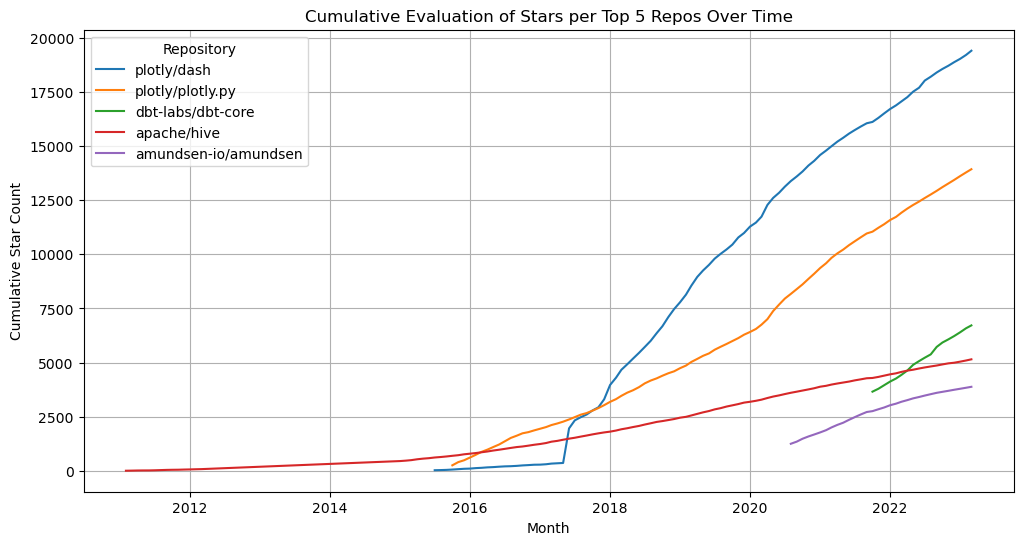
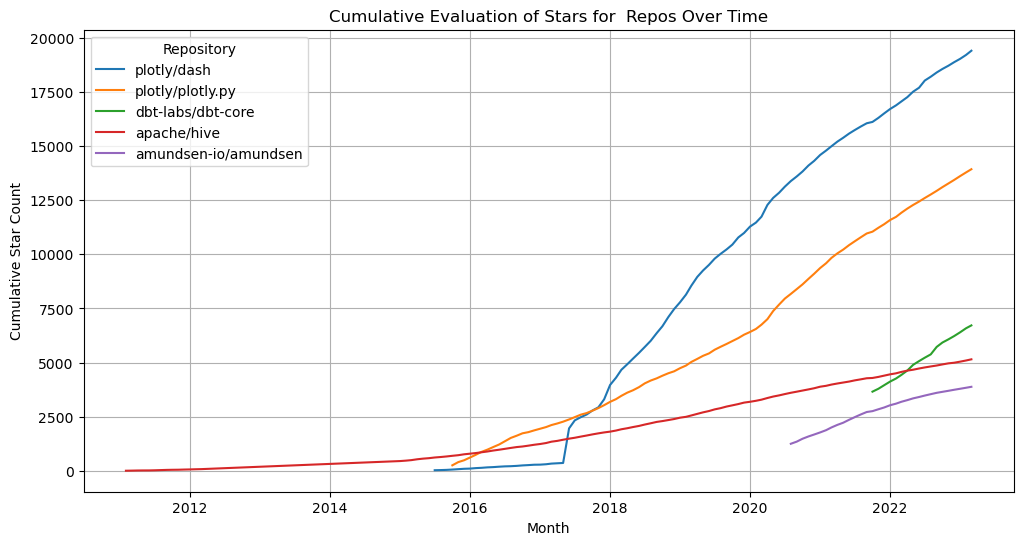
resolved issue

Changed region(s): [[0.303, 0.0, 0.7879, 0.0624]]

diff --git a/README.md b/README.md
@@ -36,5 +36,5 @@ This project’s lineage is illustrated below:
 
 ![Cumulative Stars for Top 5 Repositories Over Time](transform/docs/Monthly_star_count.png)
 	
-This chart shows the cumulative star count over time for the top 5 repositories with the highest stars each year.
+This chart shows the cumulative star count over time for the repositories with the highest stars each year.
 
